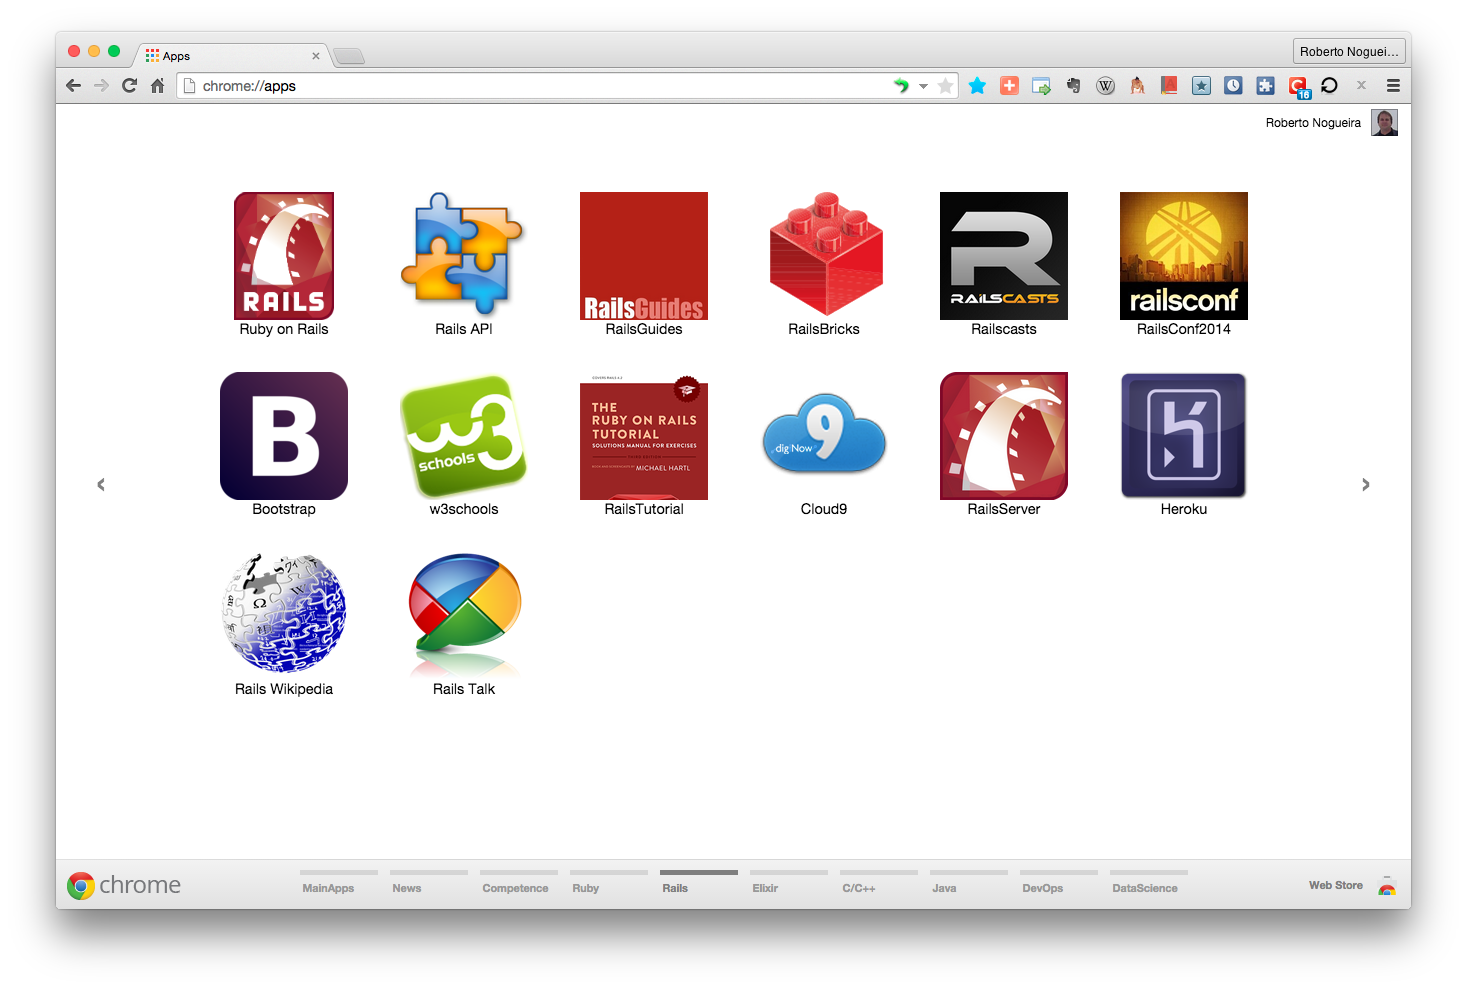
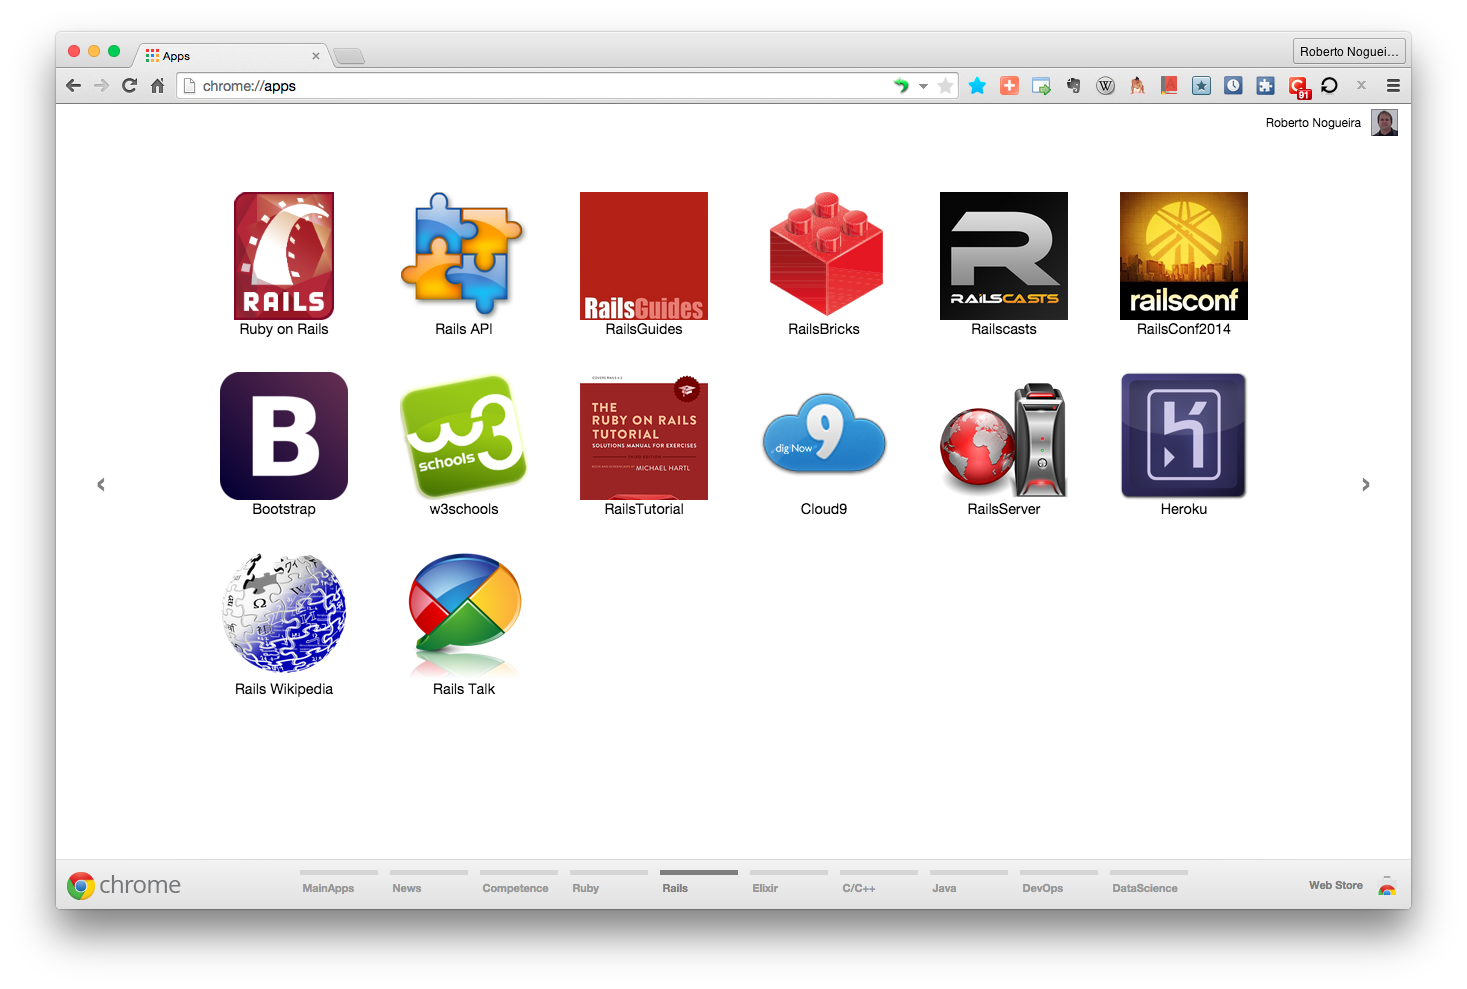
Update RailsServer and add Heroku app

Changed region(s): [[0.6135, 0.364, 0.7362, 0.5157]]

diff --git a/README.md b/README.md
@@ -26,7 +26,7 @@ drwxr-xr-x   21 enogrob  staff   714B Apr 26 23:40 ChromeApps_Rails/
 -rw-r--r--    1 enogrob  staff   139B Apr 26 23:35 today_data.yaml
 
 $ tree -L 1 ChromeApps_Rails/
-ChromeApps_Rails
+ChromeApps_Rails/
 ├── README.md
 ├── Rails-API
 ├── Rails-APIdock-RSpec
@@ -34,6 +34,7 @@ ChromeApps_Rails
 ├── Rails-Capistrano
 ├── Rails-Cloud9
 ├── Rails-GoogleGroups
+├── Rails-Heroku
 ├── Rails-Homepage
 ├── Rails-Nitrous
 ├── Rails-RailsBricks
@@ -46,7 +47,7 @@ ChromeApps_Rails
 ├── Rails-w3schools
 └── images
 
-15 directories, 1 file
+18 directories, 1 file
 $
 ```
 
